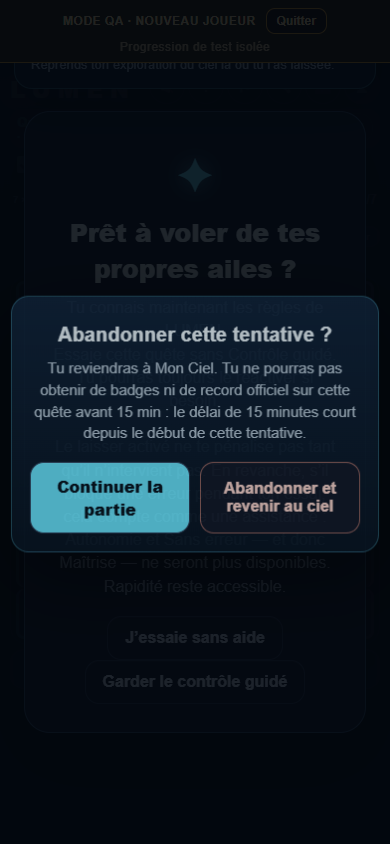
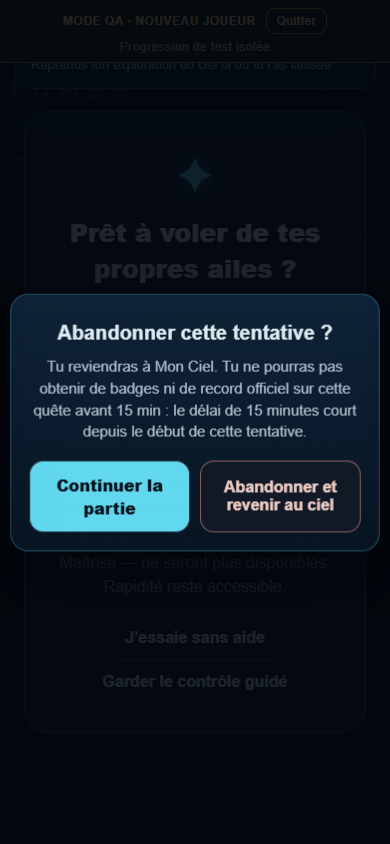
feat(board): Annuler · Effacer · Vérifier · Indice row and Quitter (#1008)
One row of four equal two-line buttons under the grid: icon and cost above a
short label (↶ Annuler, ↺ Effacer, ✓ +5 s Vérifier, 💡 +15 s Indice). The
accessible names keep the full wording and costs. Visible row height is equal
or lower at every width (44 → 40 px up to 375 px, 40 px beyond), the grid
keeps exactly the same box, no horizontal scroll; a transparent hit area
keeps every target 44 px tall, also for Pause and Quitter.

"Rejouer" already means a new attempt with a fresh clock on the results
screen, so the placement reset is named "Effacer"; its confirmation says the
clock keeps running. "Abandonner" becomes "Quitter" above the grid; its
dialog still spells out badges, the 15-minute window and the Défi du jour.
Behaviour, confirmations, menu pause (#925) and every rule are unchanged.

Changed region(s): [[0.0615, 0.3697, 0.9231, 0.6469], [0.0308, 0.3389, 0.0615, 0.3697], [0.0, 0.5853, 0.0308, 0.6161]]

diff --git a/index.html b/index.html
@@ -37,7 +37,7 @@
 <span data-game-text="board.guided">Contrôle guidé · +5 s/intervention</span>
 </label></div><div id="learningNote" class="learning-note"></div>
 <div class="status"><span id="difficulty" data-game-label="board.difficulty" aria-label="Difficulté de la quête"></span><span>◷ <span id="time">0:00</span><span id="speedCountdown" class="speed-countdown" hidden data-game-label="board.speedRemaining" aria-label="Temps restant pour le badge Éclair"><span class="speed-countdown-icon" aria-hidden="true">⌛</span><span class="speed-countdown-track" aria-hidden="true"><span id="speedCountdownFill" class="speed-countdown-fill"></span></span></span></span><span><span class="guardian-counter-icon"></span> <span id="count"></span></span></div>
-<div class="attempt-controls"><button id="completedQuestNext" type="button" hidden data-game-text="board.nextQuest">Quête suivante</button><button id="attemptPause" type="button" hidden>Pause</button><button id="attemptAbandon" type="button" hidden data-game-text="board.abandon">Abandonner</button></div><div id="rewardLive" class="reward-live"><span id="masteryLive" class="mastery-live" data-game-text="board.masteryActive">✓ Maîtrise en cours</span><span id="progressLive" class="progress-live"></span></div><div id="dailyBanner" class="daily-banner" role="status" hidden><span class="daily-banner-icon" aria-hidden="true">🏆</span><span class="daily-banner-text"><strong data-game-text="daily.title">Défi du jour</strong> · <span id="dailyBannerDate"></span></span><span id="dailyBannerMeta" class="daily-banner-meta"></span></div><div id="learningBoardWrap" class="learning-board-wrap"><button id="attemptMask" class="attempt-mask" type="button"><strong id="attemptMaskTitle" data-game-text="board.ready">Touchez la grille pour commencer</strong><span id="attemptMaskCopy" data-game-text="board.readyCopy">Le chrono démarrera au premier geste.</span><span id="personalRecord" class="personal-record" hidden></span></button><div id="scriptedLearn" class="scripted-learn" hidden role="status"><button id="learningCoachDismiss" class="learning-coach-dismiss" type="button" aria-label="Fermer le conseil" hidden>&times;</button><button id="learningSkip" class="learning-skip" type="button" hidden>Passer le tutoriel</button><strong id="scriptedLearnTitle"></strong><span id="scriptedLearnCopy"></span><button id="learningCoachNext" class="learning-coach-next" type="button" hidden>Suivant</button></div><div id="board"></div><div id="verifyCelebration" class="verify-celebration" hidden aria-live="polite"></div></div><div id="guidedCard" class="guided-card" hidden role="status"><div class="assist-copy"><strong id="guidedTitle"></strong><p id="guidedCopy" tabindex="0"></p></div><button id="guidedAck" type="button" data-game-text="board.understood">J’ai compris</button></div><div id="hintCard" class="guided-card hint-guided-card" hidden role="status"><div class="assist-copy"><strong id="hintTitle" data-game-text="hint.title">Indice Lumen</strong><p id="hintCopy" tabindex="0"></p></div><button id="hintClose" class="hint-guided-close" type="button" data-game-label="board.dismissHint" aria-label="Fermer l’indice">×</button></div><div id="verifyCard" class="verify-card" hidden role="status"><div class="assist-copy"><strong id="verifyTitle" data-game-text="board.correctChoices">Des choix sont à corriger</strong><p id="verifyCopy" tabindex="0"></p></div><button id="verifyFix" type="button" data-game-text="board.correct">Corriger</button></div><div id="rewardToast" class="reward-toast" aria-live="polite"></div><div class="actions"><button id="new" type="button" class="action-reset" data-game-label="board.reset" data-game-title="board.reset" aria-label="Réinitialiser la grille" title="Réinitialiser la grille">↺</button><button id="undo" data-game-text="board.undo">Annuler</button><button id="verify">✓ Vérifier</button><button id="hint">Indice · +15 s</button></div>
+<div class="attempt-controls"><button id="completedQuestNext" type="button" hidden data-game-text="board.nextQuest">Quête suivante</button><button id="attemptPause" type="button" hidden>Pause</button><button id="attemptAbandon" type="button" hidden data-game-text="board.quit">Quitter</button></div><div id="rewardLive" class="reward-live"><span id="masteryLive" class="mastery-live" data-game-text="board.masteryActive">✓ Maîtrise en cours</span><span id="progressLive" class="progress-live"></span></div><div id="dailyBanner" class="daily-banner" role="status" hidden><span class="daily-banner-icon" aria-hidden="true">🏆</span><span class="daily-banner-text"><strong data-game-text="daily.title">Défi du jour</strong> · <span id="dailyBannerDate"></span></span><span id="dailyBannerMeta" class="daily-banner-meta"></span></div><div id="learningBoardWrap" class="learning-board-wrap"><button id="attemptMask" class="attempt-mask" type="button"><strong id="attemptMaskTitle" data-game-text="board.ready">Touchez la grille pour commencer</strong><span id="attemptMaskCopy" data-game-text="board.readyCopy">Le chrono démarrera au premier geste.</span><span id="personalRecord" class="personal-record" hidden></span></button><div id="scriptedLearn" class="scripted-learn" hidden role="status"><button id="learningCoachDismiss" class="learning-coach-dismiss" type="button" aria-label="Fermer le conseil" hidden>&times;</button><button id="learningSkip" class="learning-skip" type="button" hidden>Passer le tutoriel</button><strong id="scriptedLearnTitle"></strong><span id="scriptedLearnCopy"></span><button id="learningCoachNext" class="learning-coach-next" type="button" hidden>Suivant</button></div><div id="board"></div><div id="verifyCelebration" class="verify-celebration" hidden aria-live="polite"></div></div><div id="guidedCard" class="guided-card" hidden role="status"><div class="assist-copy"><strong id="guidedTitle"></strong><p id="guidedCopy" tabindex="0"></p></div><button id="guidedAck" type="button" data-game-text="board.understood">J’ai compris</button></div><div id="hintCard" class="guided-card hint-guided-card" hidden role="status"><div class="assist-copy"><strong id="hintTitle" data-game-text="hint.title">Indice Lumen</strong><p id="hintCopy" tabindex="0"></p></div><button id="hintClose" class="hint-guided-close" type="button" data-game-label="board.dismissHint" aria-label="Fermer l’indice">×</button></div><div id="verifyCard" class="verify-card" hidden role="status"><div class="assist-copy"><strong id="verifyTitle" data-game-text="board.correctChoices">Des choix sont à corriger</strong><p id="verifyCopy" tabindex="0"></p></div><button id="verifyFix" type="button" data-game-text="board.correct">Corriger</button></div><div id="rewardToast" class="reward-toast" aria-live="polite"></div><div class="actions"><button id="undo" type="button" class="action-btn"><span class="action-top" aria-hidden="true">↶</span><span class="action-label" data-game-text="board.undo">Annuler</span></button><button id="new" type="button" class="action-btn action-reset" data-game-title="board.reset" title="Effacer tous les placements de la grille"><span class="action-top" aria-hidden="true">↺</span><span class="action-label" data-game-text="board.clear">Effacer</span></button><button id="verify" type="button" class="action-btn"><span class="action-top" aria-hidden="true">✓&thinsp;<small>+5 s</small></span><span class="action-label" data-game-text="board.verifyShort">Vérifier</span></button><button id="hint" type="button" class="action-btn"><span class="action-top" aria-hidden="true">💡&thinsp;<small>+15 s</small></span><span class="action-label" data-game-text="board.hintShort">Indice</span></button></div>
 <div class="msg" id="msg"></div>
 
 

diff --git a/src/ui/styles.css b/src/ui/styles.css
@@ -1764,3 +1764,18 @@ html body .game-core .actions>#new.action-reset:hover,html body .game-core .acti
 
 /* #962: one-tap diagnostic transmission status. */
 .support-quick-status{margin:4px 12px 8px;font-size:13px;line-height:1.35;overflow-wrap:anywhere}
+
+/* #1008: one row of four equal two-line buttons (icon and cost, then a short
+   label). Visible height never exceeds the former row (44 px up to 375 px wide,
+   40 px beyond); a transparent hit area keeps every target at 44 px tall. */
+html body .game-core .actions{grid-template-columns:repeat(4,minmax(0,1fr))!important}
+html body .game-core .actions>.action-btn,html body .game-core .actions>#new.action-reset{position:relative;display:flex;flex-direction:column;align-items:center;justify-content:center;gap:1px;width:auto;min-width:0;padding:2px 2px!important;font-size:12px!important;line-height:1.05;opacity:1;white-space:nowrap;overflow:visible}
+html body .game-core .actions>.action-btn::after{content:"";position:absolute;left:0;right:0;top:50%;height:max(44px,100%);transform:translateY(-50%)}
+.action-btn .action-top{font-size:14px;line-height:1.05;font-weight:800;white-space:nowrap}
+.action-btn .action-top small{font-size:10.5px;font-weight:800;color:#f3d77a;letter-spacing:-.02em}
+.action-btn .action-label{font-size:11.5px;font-weight:700;letter-spacing:-.01em;overflow:hidden;text-overflow:ellipsis;max-width:100%}
+html body .game-core .actions>#new.action-reset .action-top{color:#ffb38a}
+@media (min-width:390px){.action-btn .action-label{font-size:12.5px}.action-btn .action-top{font-size:15px}}
+/* Pause and Quitter keep their row; their hit area reaches 44 px. */
+.attempt-controls button{position:relative}
+.attempt-controls button::after{content:"";position:absolute;left:-4px;right:-4px;top:50%;height:44px;transform:translateY(-50%)}

diff --git a/src/ui/game-screen.js b/src/ui/game-screen.js
@@ -2850,8 +2850,17 @@ function finishLearningReplay(){
  refreshJourney();
 }
 
-function updateHintButton(){const button=document.getElementById("hint");if(button){button.textContent=t("board.hint");button.title=t("board.hintTitle")}}
-function updateVerifyButton(){const button=document.getElementById("verify");if(button){button.textContent=t("board.verify");button.title=t("board.verifyTitle")}}
+// #1008: one row of four two-line buttons (icon and cost above a short label).
+// The accessible name keeps the full wording, cost included.
+function renderActionButton(button,icon,cost,label,name,title){
+ if(!button)return;
+ const top=document.createElement('span');top.className='action-top';top.setAttribute('aria-hidden','true');top.append(icon+' ');
+ const small=document.createElement('small');small.textContent=cost;top.append(small);
+ const text=document.createElement('span');text.className='action-label';text.textContent=label;
+ button.replaceChildren(top,text);button.setAttribute('aria-label',name);button.title=title;
+}
+function updateHintButton(){renderActionButton(document.getElementById("hint"),'💡','+15 s',t("board.hintShort"),t("board.hint"),t("board.hintTitle"))}
+function updateVerifyButton(){renderActionButton(document.getElementById("verify"),'✓','+5 s',t("board.verifyShort"),t("board.verify"),t("board.verifyTitle"))}
 
 function verificationHappyCopy(){
  const q=state.flat().filter(v=>v===2).length;

diff --git a/src/ui/locales/fr/board.js b/src/ui/locales/fr/board.js
@@ -10,12 +10,16 @@ export default Object.freeze({
   'board.language': "Langue",
   'board.languageAuto': "Automatique",
   'board.languageUnavailable': "Langue indisponible · français utilisé",
-  'board.reset': "Réinitialiser la grille",
+  'board.reset': "Effacer tous les placements de la grille",
   'board.undo': "Annuler",
-  'board.resetTitle': "Recommencer la grille ?",
+  'board.clear': "Effacer",
+  'board.verifyShort': "Vérifier",
+  'board.hintShort': "Indice",
+  'board.quit': "Quitter",
+  'board.resetTitle': "Effacer tes placements ?",
   'board.resetCopy': "Tes marques seront effacées, mais le chrono continuera et les aides ou erreurs déjà comptées resteront prises en compte.",
   'board.resetKeep': "Continuer à jouer",
-  'board.resetYes': "Recommencer",
+  'board.resetYes': "Effacer",
   'board.hint': "Indice · +15 s",
   'board.hintTitle': "Explique la prochaine déduction. Ajoute 15 secondes au chrono officiel.",
   'board.verify': "✓ Vérifier · +5 s",
@@ -29,7 +33,6 @@ export default Object.freeze({
   'board.nextQuest': "Quête suivante",
   'board.pause': "Pause",
   'board.resume': "Reprendre",
-  'board.abandon': "Abandonner",
   'board.abandonConfirm': "Abandonner cette tentative ?",
   'board.abandonContinue': "Continuer la partie",
   'board.abandonConfirmSky': "Abandonner et revenir au ciel",

diff --git a/src/ui/locales/es/board.js b/src/ui/locales/es/board.js
@@ -11,12 +11,16 @@ export default Object.freeze({
   'board.language': "Idioma",
   'board.languageAuto': "Automático",
   'board.languageUnavailable': "Idioma no disponible · se usa el francés",
-  'board.reset': "Reiniciar la cuadrícula",
+  'board.reset': "Borrar todas las colocaciones de la cuadrícula",
   'board.undo': "Deshacer",
-  'board.resetTitle': "¿Empezar la cuadrícula de nuevo?",
+  'board.clear': "Borrar",
+  'board.verifyShort': "Comprobar",
+  'board.hintShort': "Pista",
+  'board.quit': "Salir",
+  'board.resetTitle': "¿Borrar tus colocaciones?",
   'board.resetCopy': "Tus marcas se borrarán, pero el cronómetro seguirá corriendo y las ayudas o errores ya contados se mantendrán.",
   'board.resetKeep': "Seguir jugando",
-  'board.resetYes': "Empezar de nuevo",
+  'board.resetYes': "Borrar",
   'board.hint': "Pista · +15 s",
   'board.hintTitle': "Explica la siguiente deducción. Añade 15 segundos al tiempo oficial.",
   'board.verify': "✓ Comprobar · +5 s",
@@ -30,7 +34,6 @@ export default Object.freeze({
   'board.nextQuest': "Siguiente misión",
   'board.pause': "Pausa",
   'board.resume': "Reanudar",
-  'board.abandon': "Abandonar",
   'board.abandonConfirm': "¿Abandonar este intento?",
   'board.abandonContinue': "Seguir jugando",
   'board.abandonConfirmSky': "Abandonar y volver al cielo",

diff --git a/src/ui/locales/en/board.js b/src/ui/locales/en/board.js
@@ -10,12 +10,16 @@ export default Object.freeze({
   'board.language': "Language",
   'board.languageAuto': "Automatic",
   'board.languageUnavailable': "Language unavailable · using French",
-  'board.reset': "Reset the board",
+  'board.reset': "Clear every placement on the board",
   'board.undo': "Undo",
-  'board.resetTitle': "Start the board over?",
+  'board.clear': "Clear",
+  'board.verifyShort': "Check",
+  'board.hintShort': "Hint",
+  'board.quit': "Quit",
+  'board.resetTitle': "Clear your placements?",
   'board.resetCopy': "Your marks will be cleared, but the timer keeps running and any hints or mistakes already counted still apply.",
   'board.resetKeep': "Keep playing",
-  'board.resetYes': "Start over",
+  'board.resetYes': "Clear",
   'board.hint': "Hint · +15 s",
   'board.hintTitle': "Explains the next deduction and adds 15 seconds to your official time.",
   'board.verify': "✓ Check · +5 s",
@@ -29,7 +33,6 @@ export default Object.freeze({
   'board.nextQuest': "Next quest",
   'board.pause': "Pause",
   'board.resume': "Resume",
-  'board.abandon': "Abandon",
   'board.abandonConfirm': "Abandon this attempt?",
   'board.abandonContinue': "Keep playing",
   'board.abandonConfirmSky': "Abandon and return to the sky",

diff --git a/docs/architecture/test-map.md b/docs/architecture/test-map.md
@@ -425,7 +425,7 @@ Phase 2: `npm run test:affected` / `node scripts/test-affected.mjs` selects the 
 | Auth / sessions (`src/persistence/cloud.js`, UI) | `account-email-login-tests.mjs`, `account-session-modes-tests.mjs`, `cloud-client-session-tests.mjs`, `cloud-session-guard-tests.mjs`, `oauth-return.test.mjs`, `persistence-tests.mjs` | Google/password/guest/recovery contracts, startup/event ordering and session guards; isolated simulations/source assertions |
 | Auth mail (`src/auth/`, dedicated mail functions) | `auth-mail-otp-tests.mjs`, `auth-email-brand-routing-tests.mjs`, `auth-email-delivery-plan-tests.mjs`, `auth-email-hook-integration-tests.mjs`, `auth-email-ledger-contract-tests.mjs` | Historical filename `auth-mail-otp-tests.mjs` now includes rejection of retired OTP/magic-link login; recovery/confirmation and routing remain relevant |
 | Daily challenge (#882) | `daily-challenge-tests.mjs`, `daily-view-tests.mjs`, `daily-week-tests.mjs`, `daily-challenge-browser.mjs` (via canonical replay browser suite), `daily-schedule.mjs --check`, SQL `fixtures/daily-challenge-882.sql`, `daily-concurrency.py`, `fixtures/daily-rollback-882.sql` (canonical-ledger CI) | Paris day/DST, pinned grid, one official attempt, both rankings from one row, frozen weekly ranks, English/French presentation and share, erasure |
-| Abandon and qualification window (#908) | `abandon-attempt-908-tests.mjs`, `abandon-attempt-browser-tests.mjs`, `attempt-engine-tests.mjs` | Full gate; #998: a qualifying start stamps only an existing performance record (never a new `{questIndex}` entry the legacy guard refuses) |
+| Abandon and qualification window (#908; Quitter label and Annuler · Effacer · Vérifier · Indice row #1008) | `abandon-attempt-908-tests.mjs`, `abandon-attempt-browser-tests.mjs`, `landscape-layout-browser-tests.mjs`, `attempt-engine-tests.mjs` | Full gate; #998: a qualifying start stamps only an existing performance record (never a new `{questIndex}` entry the legacy guard refuses) |
 | In-game confirmations (#921) | `lumen-dialog-tests.mjs`, `lumen-dialog-browser-tests.mjs`, `quest-review-tests.mjs`, `abandon-attempt-browser-tests.mjs` | Full gate |
 | Mastery celebration (#886) | `mastery-prelude-tests.mjs`, `adventure-mastery-browser-tests.mjs`, `admin-preview-browser-tests.mjs`, `celestial-ux-tests.mjs` | Full gate |
 | Menu pause (#925) | `menu-pause-tests.mjs`, `menu-pause-browser-tests.mjs`, `abandon-attempt-browser-tests.mjs`, `attempt-engine-tests.mjs` | Full gate |
